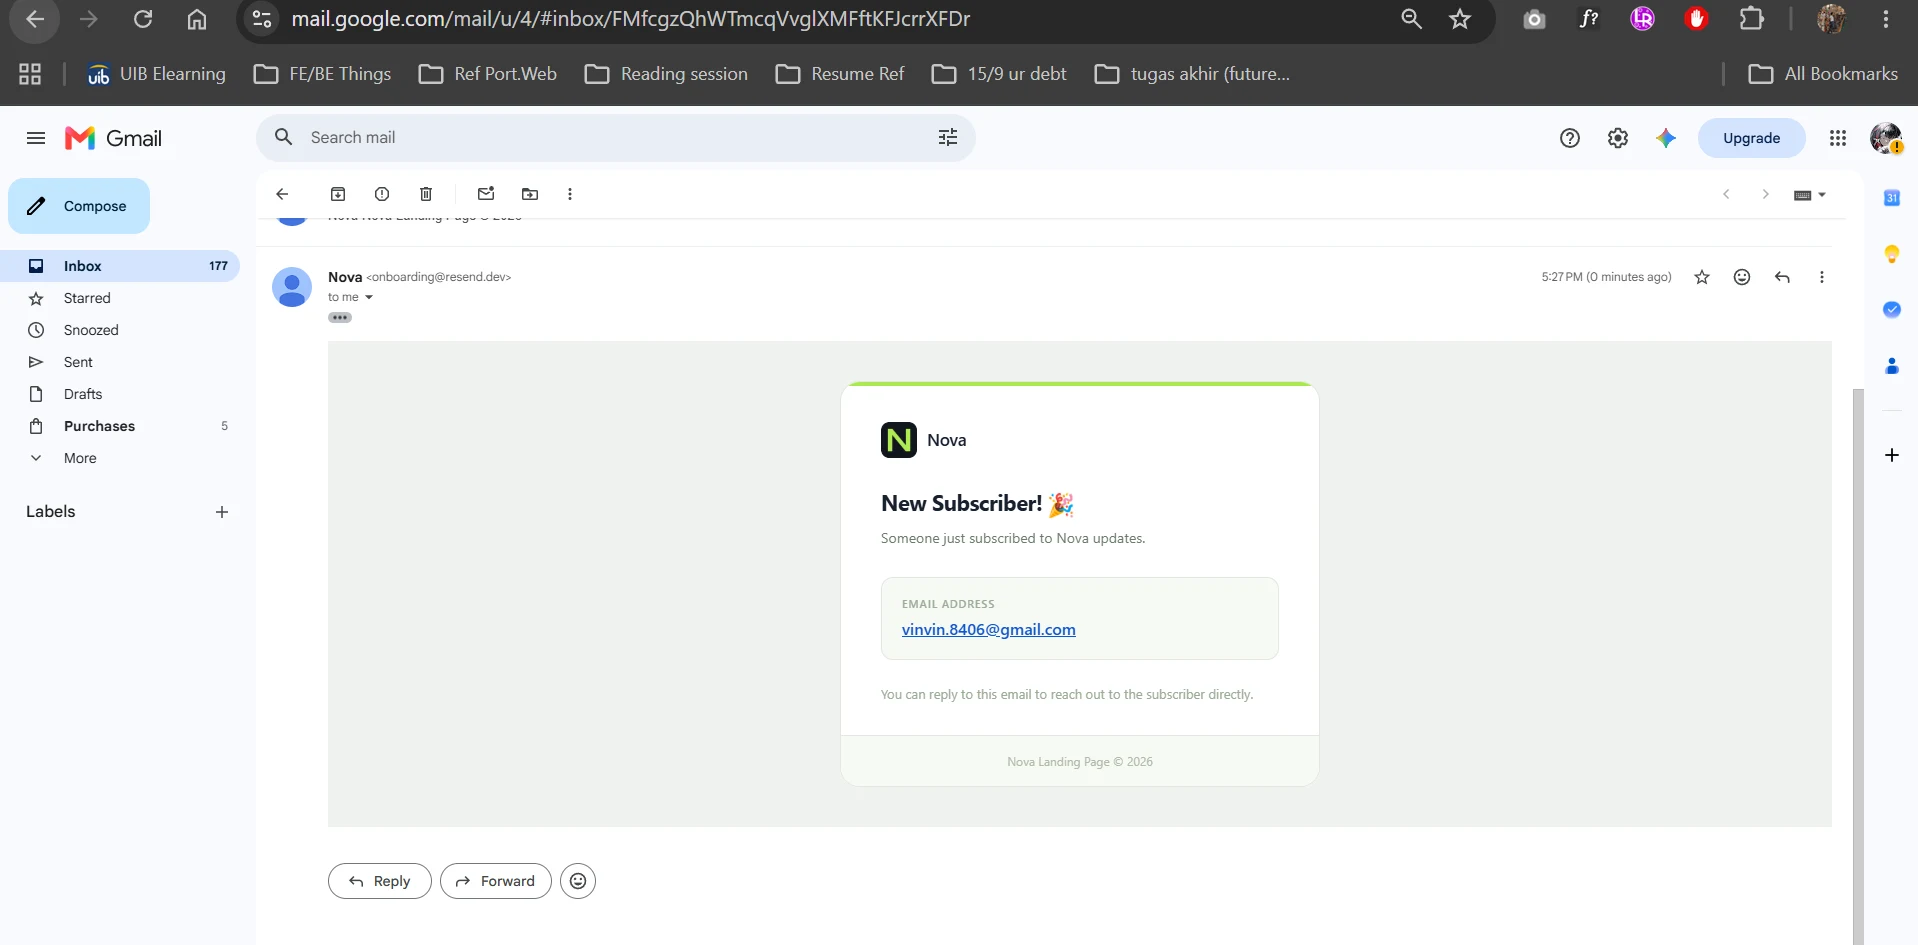
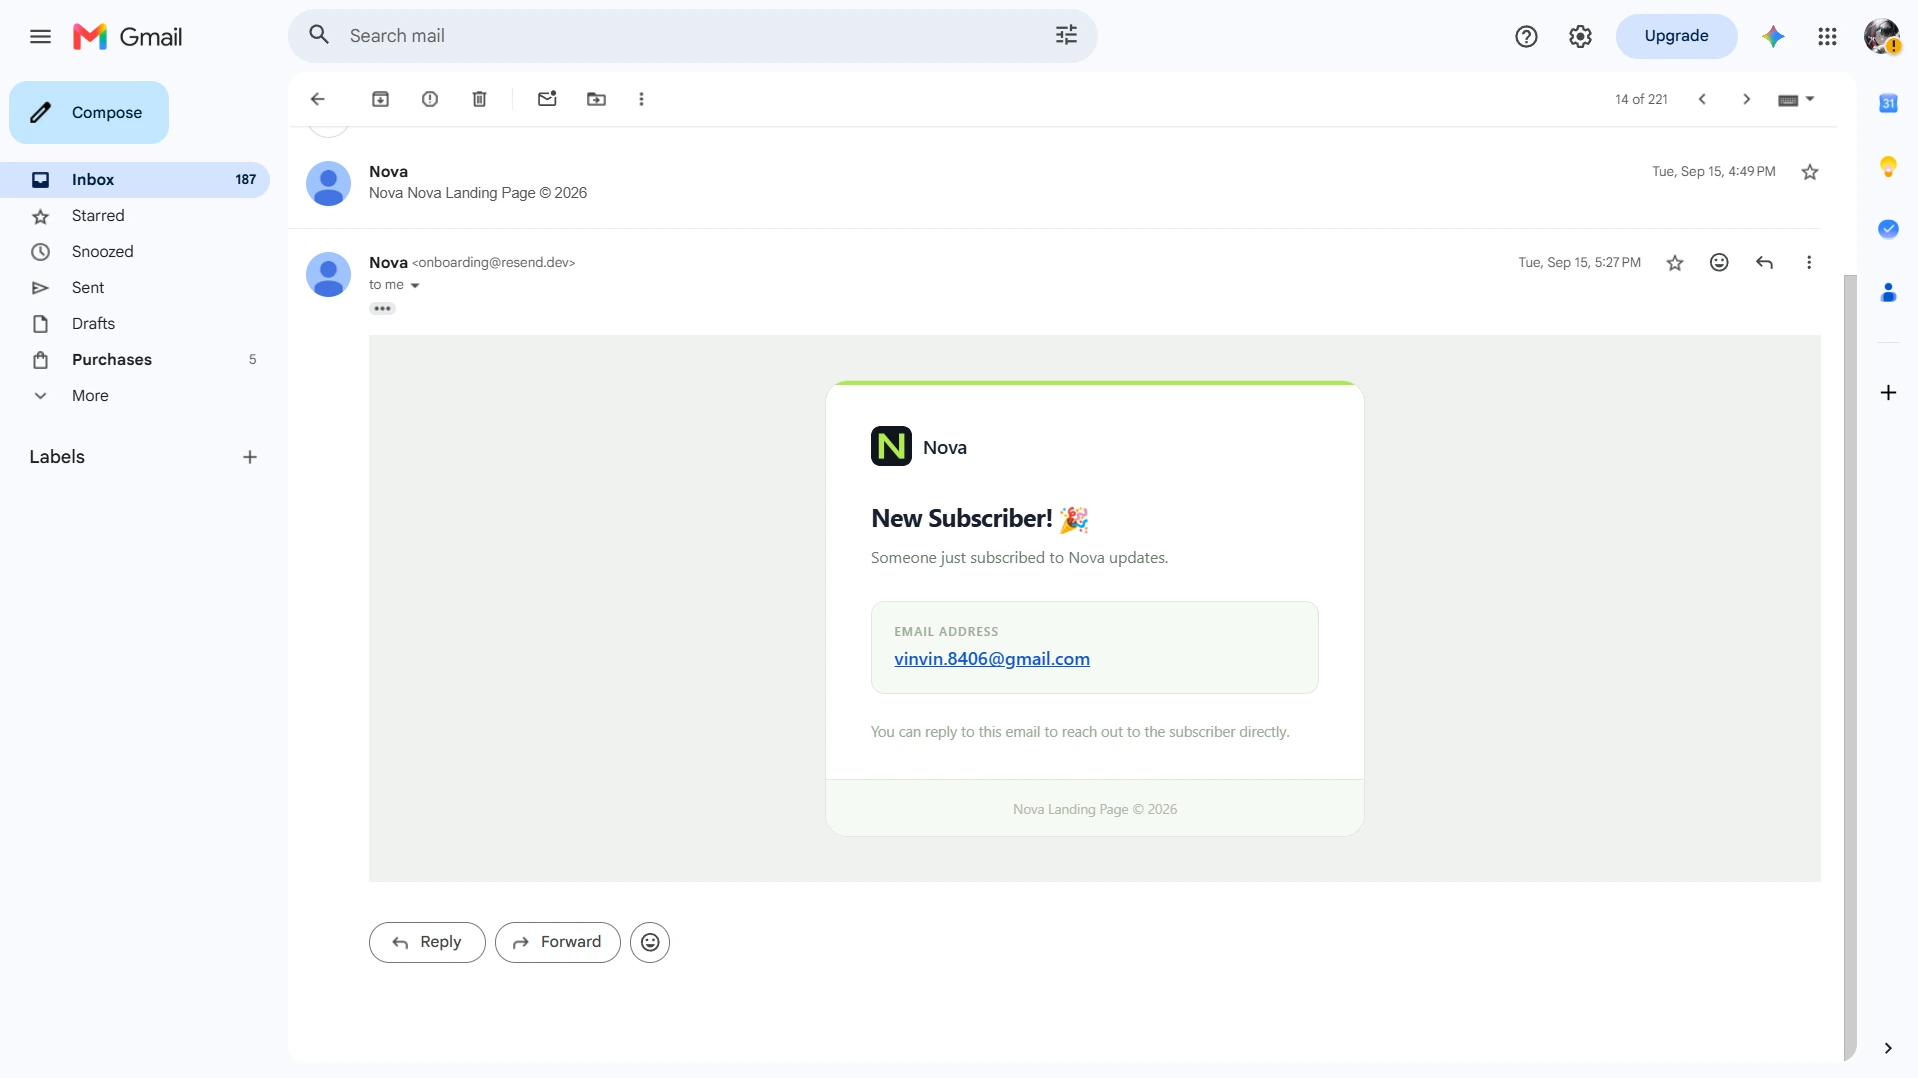
fix(projects): update project card thumbnail aspect ratio to 2:1 and add neutral theme tokens

diff --git a/components/sections/Projects.tsx b/components/sections/Projects.tsx
@@ -26,13 +26,13 @@ export function ProjectCard({ project, onClick }: ProjectCardProps) {
     <div 
       className="group flex h-full flex-col overflow-hidden rounded-xl border border-(--color-border) bg-white transition-all duration-300 hover:-translate-y-1 hover:border-accent/50 hover:shadow-xl hover:shadow-accent/5"
     >
-      <div className="relative aspect-video w-full overflow-hidden bg-(--color-bg) border-b border-(--color-border)">
+      <div className="relative aspect-2/1 w-full overflow-hidden bg-(--color-bg) border-b border-(--color-border)">
         <img 
           src={project.imageUrl} 
           alt={project.title} 
           loading="lazy"
           decoding="async"
-          className="h-full w-full object-contain transition-transform duration-500 group-hover:scale-105"
+          className="h-full w-full object-cover object-top transition-transform duration-500 group-hover:scale-105"
         />
       </div>
 

diff --git a/app/globals.css b/app/globals.css
@@ -16,6 +16,10 @@
   /* Text */
   --color-text-primary: #1a1a2e;  /* near-black with warm blue tint */
   --color-text-secondary: #6b7280;/* muted gray for supporting text */
+
+  /* Neutral Black & White Tokens */
+  --color-white: #ffffff;
+  --color-black: #121217;
 }
 
 
@@ -43,11 +47,8 @@
 }
 
 html {
-  scroll-padding-top: 5rem;
-}
-
-html[data-scroll-behavior="smooth"] {
-  scroll-behavior: smooth;
+  scroll-behavior: smooth !important;
+  scroll-padding-top: 5.5rem;
 }
 
 body {
